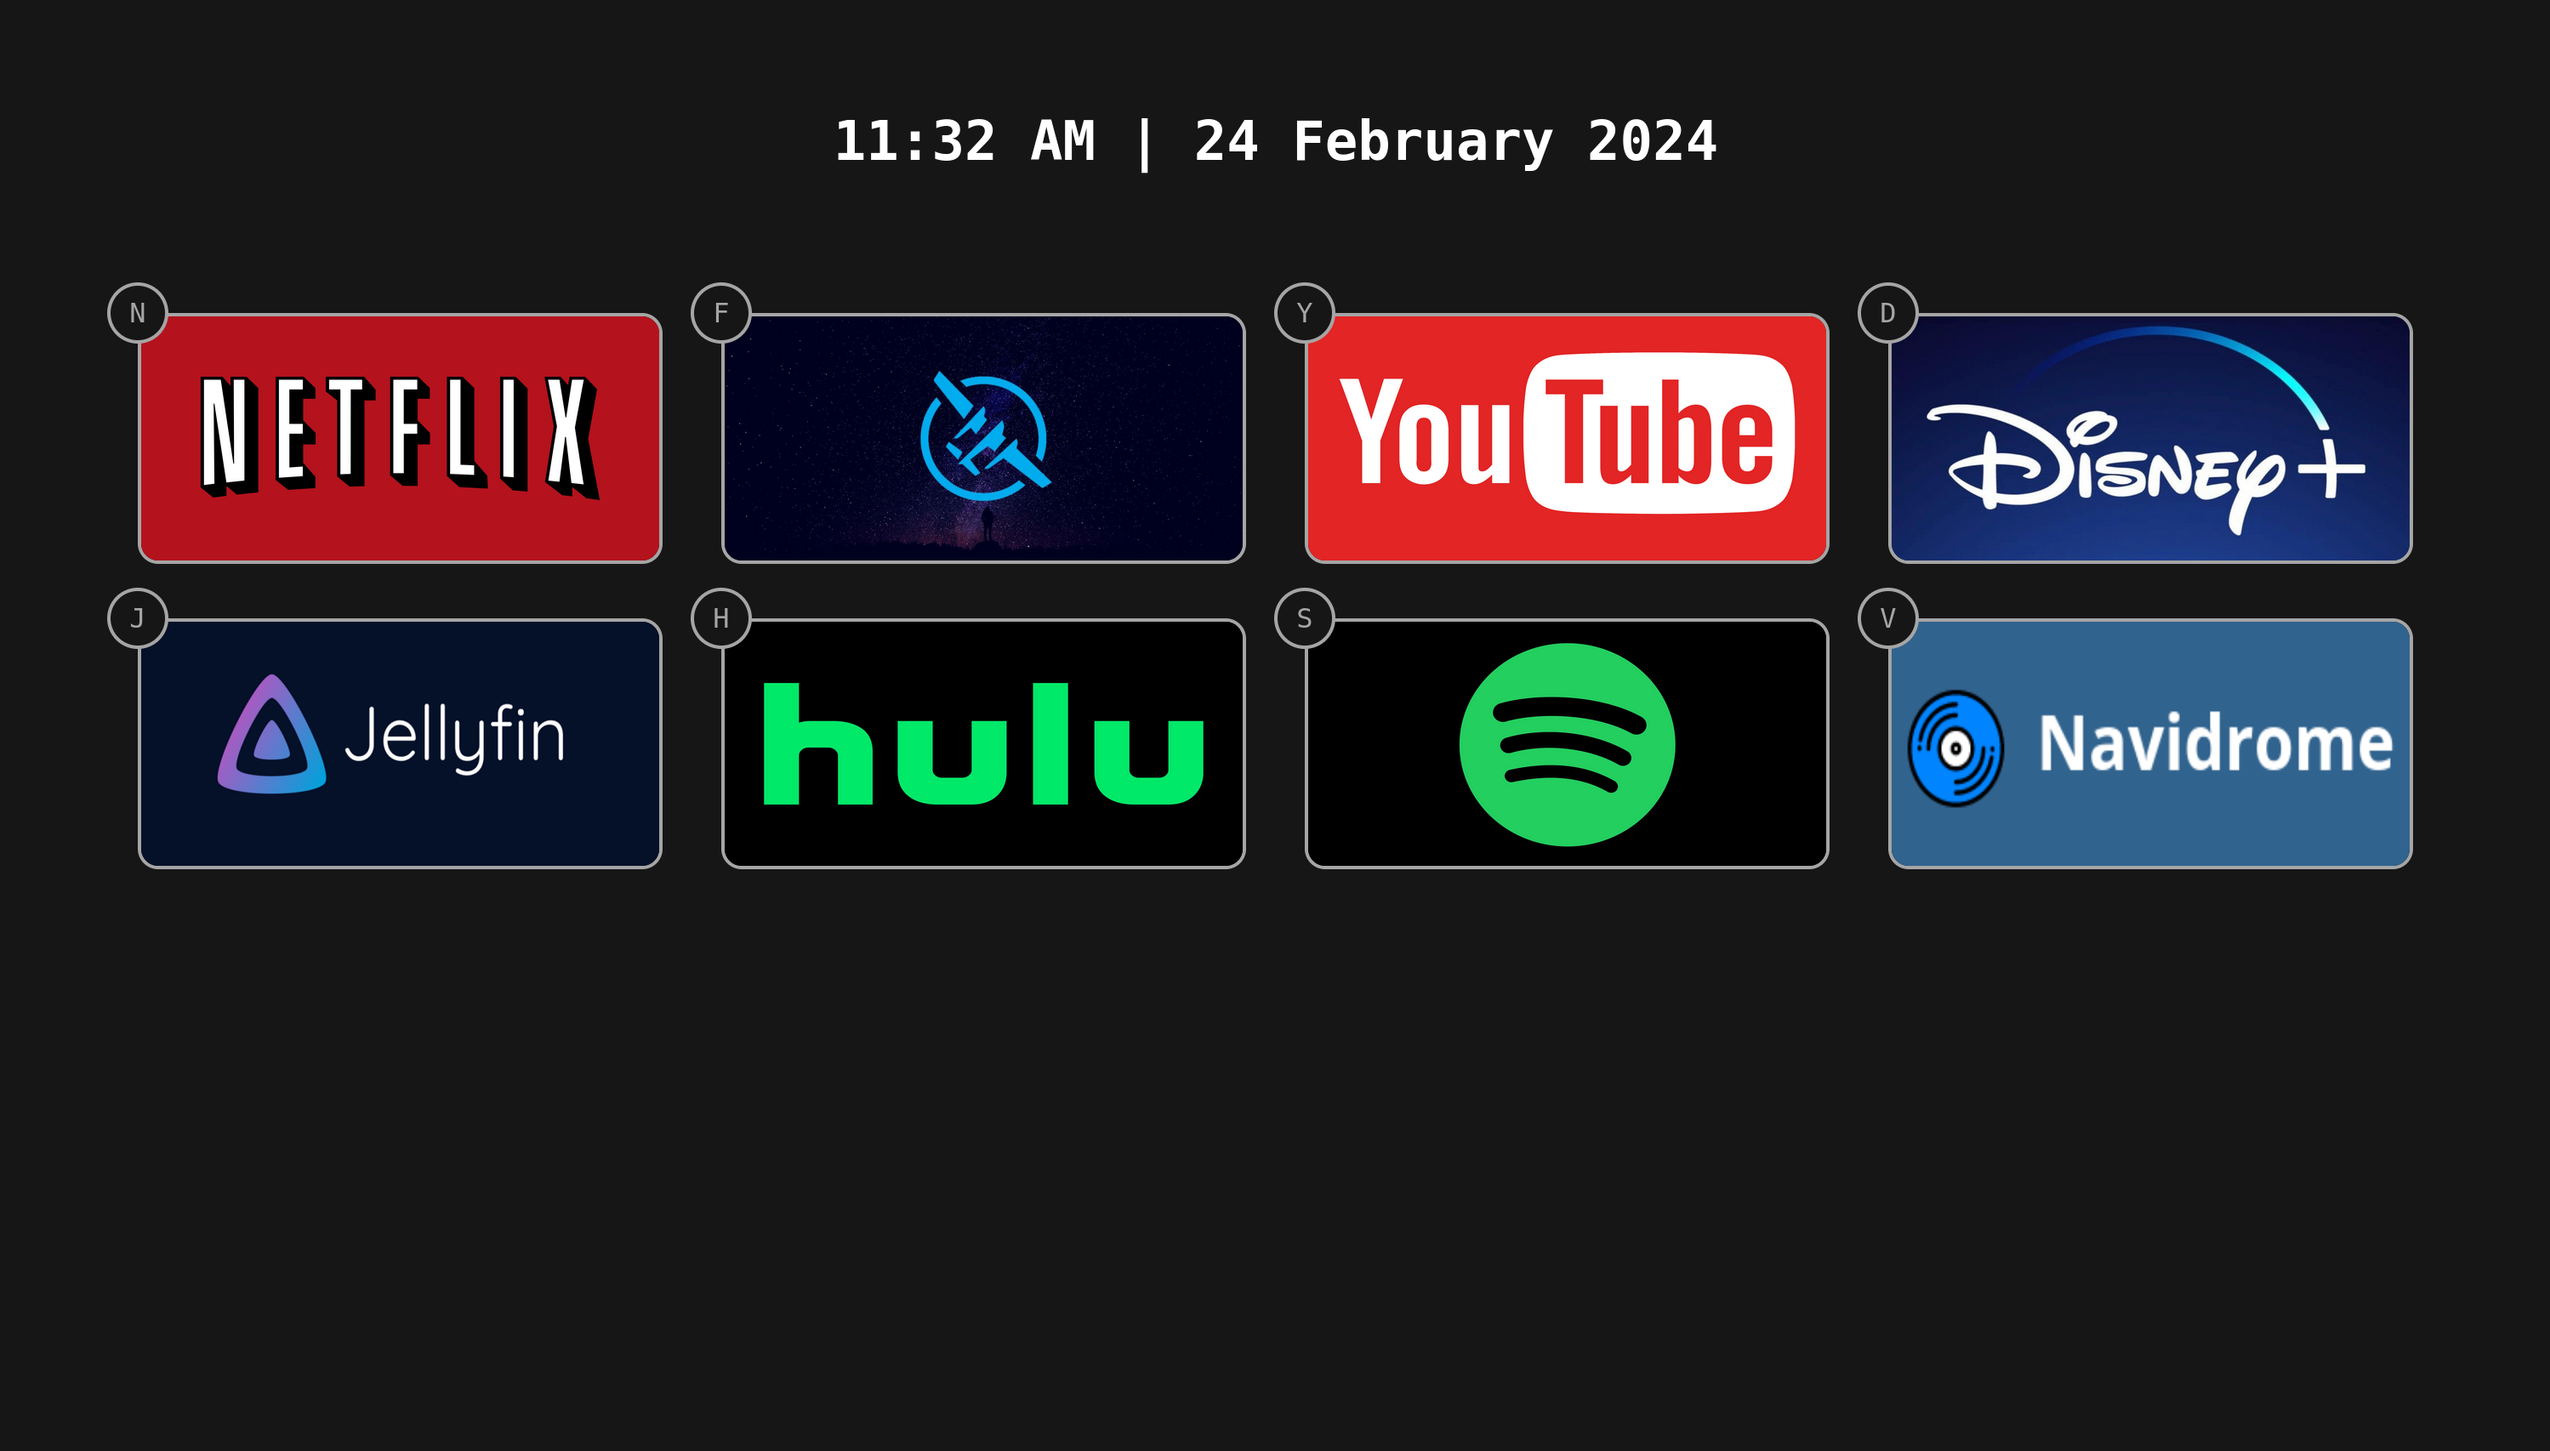
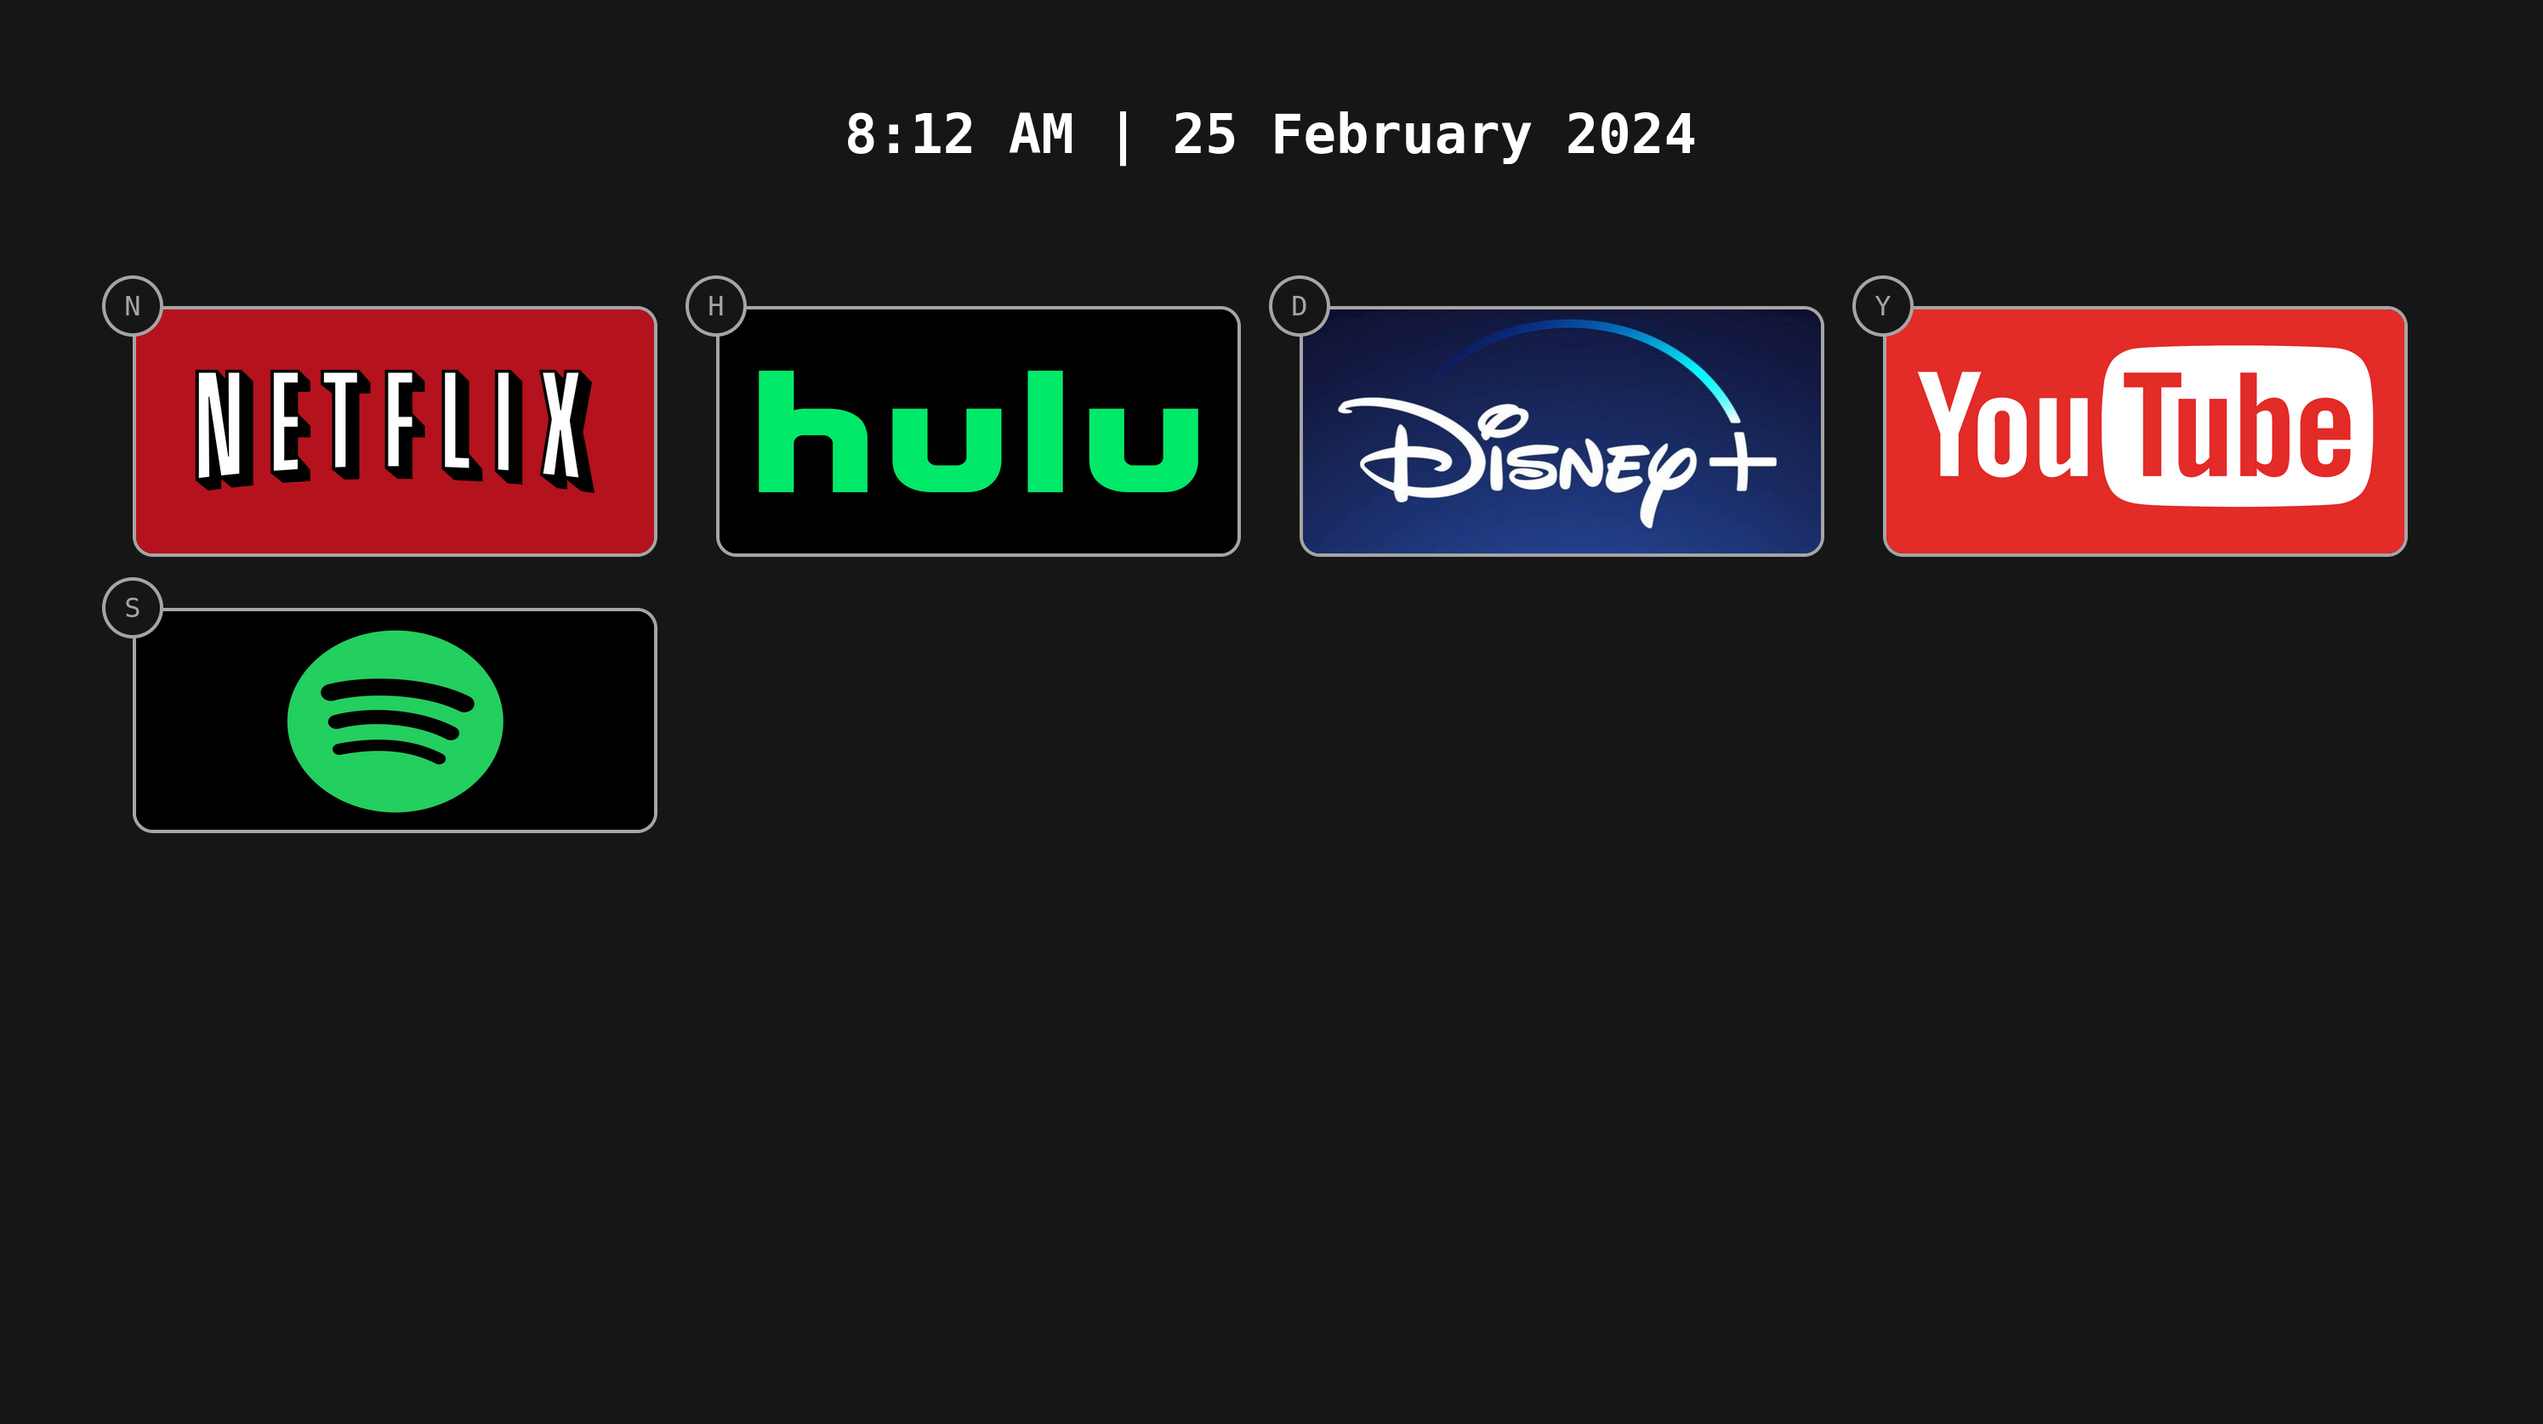
makefile update and readme

diff --git a/README.md b/README.md
@@ -9,6 +9,81 @@ MediaHome is a self-hostable homepage for all your media services. MediaHome is 
 - Configurable with `json`
 - Keyboard shortcuts to launch into services
 
+## Deployment
+
+Docker compose:
+
+```
+---
+version: "3"
+services:
+  homer:
+    image: noahhefner/mediahome:latest
+    container_name: media-home
+    volumes:
+      - /path/to/your/config:/usr/share/nginx/html/config
+    ports:
+      - 8080:80
+    user: 1000:1000
+```
+
+For `config` example directory, see `/public/config`. Expected `config` directory is:
+
+```
+config/
+├── config.json
+└── images
+    ├── service-image-1.png
+    └── service-image-2.jpg
+```
+
+Example `config.json`:
+
+```
+{
+  "appearance": {
+    "columns": 4
+  },
+  "tiles": [
+    {
+      "service": "Netflix",
+      "url": "https://www.netflix.com",
+      "image": "netflix-logo.png",
+      "keybind": "n",
+      "target": "_blank"
+    },
+    {
+      "service": "Hulu",
+      "url": "https://www.hulu.com",
+      "image": "hulu-logo.jpg",
+      "keybind": "h",
+      "target": "_blank"
+    },
+    {
+      "service": "Disney",
+      "url": "https://www.disneyplus.com",
+      "image": "disney-logo.jpeg",
+      "keybind": "d",
+      "target": "_blank"
+    },
+    {
+      "service": "Youtube",
+      "url": "https://www.youtube.com",
+      "image": "youtube-logo.jpg",
+      "keybind": "y",
+      "target": "_blank"
+    },
+    {
+      "service": "Spotify",
+      "url": "https://www.spotify.com",
+      "image": "spotify-logo.jpg",
+      "keybind": "s",
+      "target": "_blank"
+    }
+  ]
+}
+```
+
 ## Roadmap
 
 - [X] Dockerize the application with volume support for configuration files (done-ish, docker-compose is untested)
